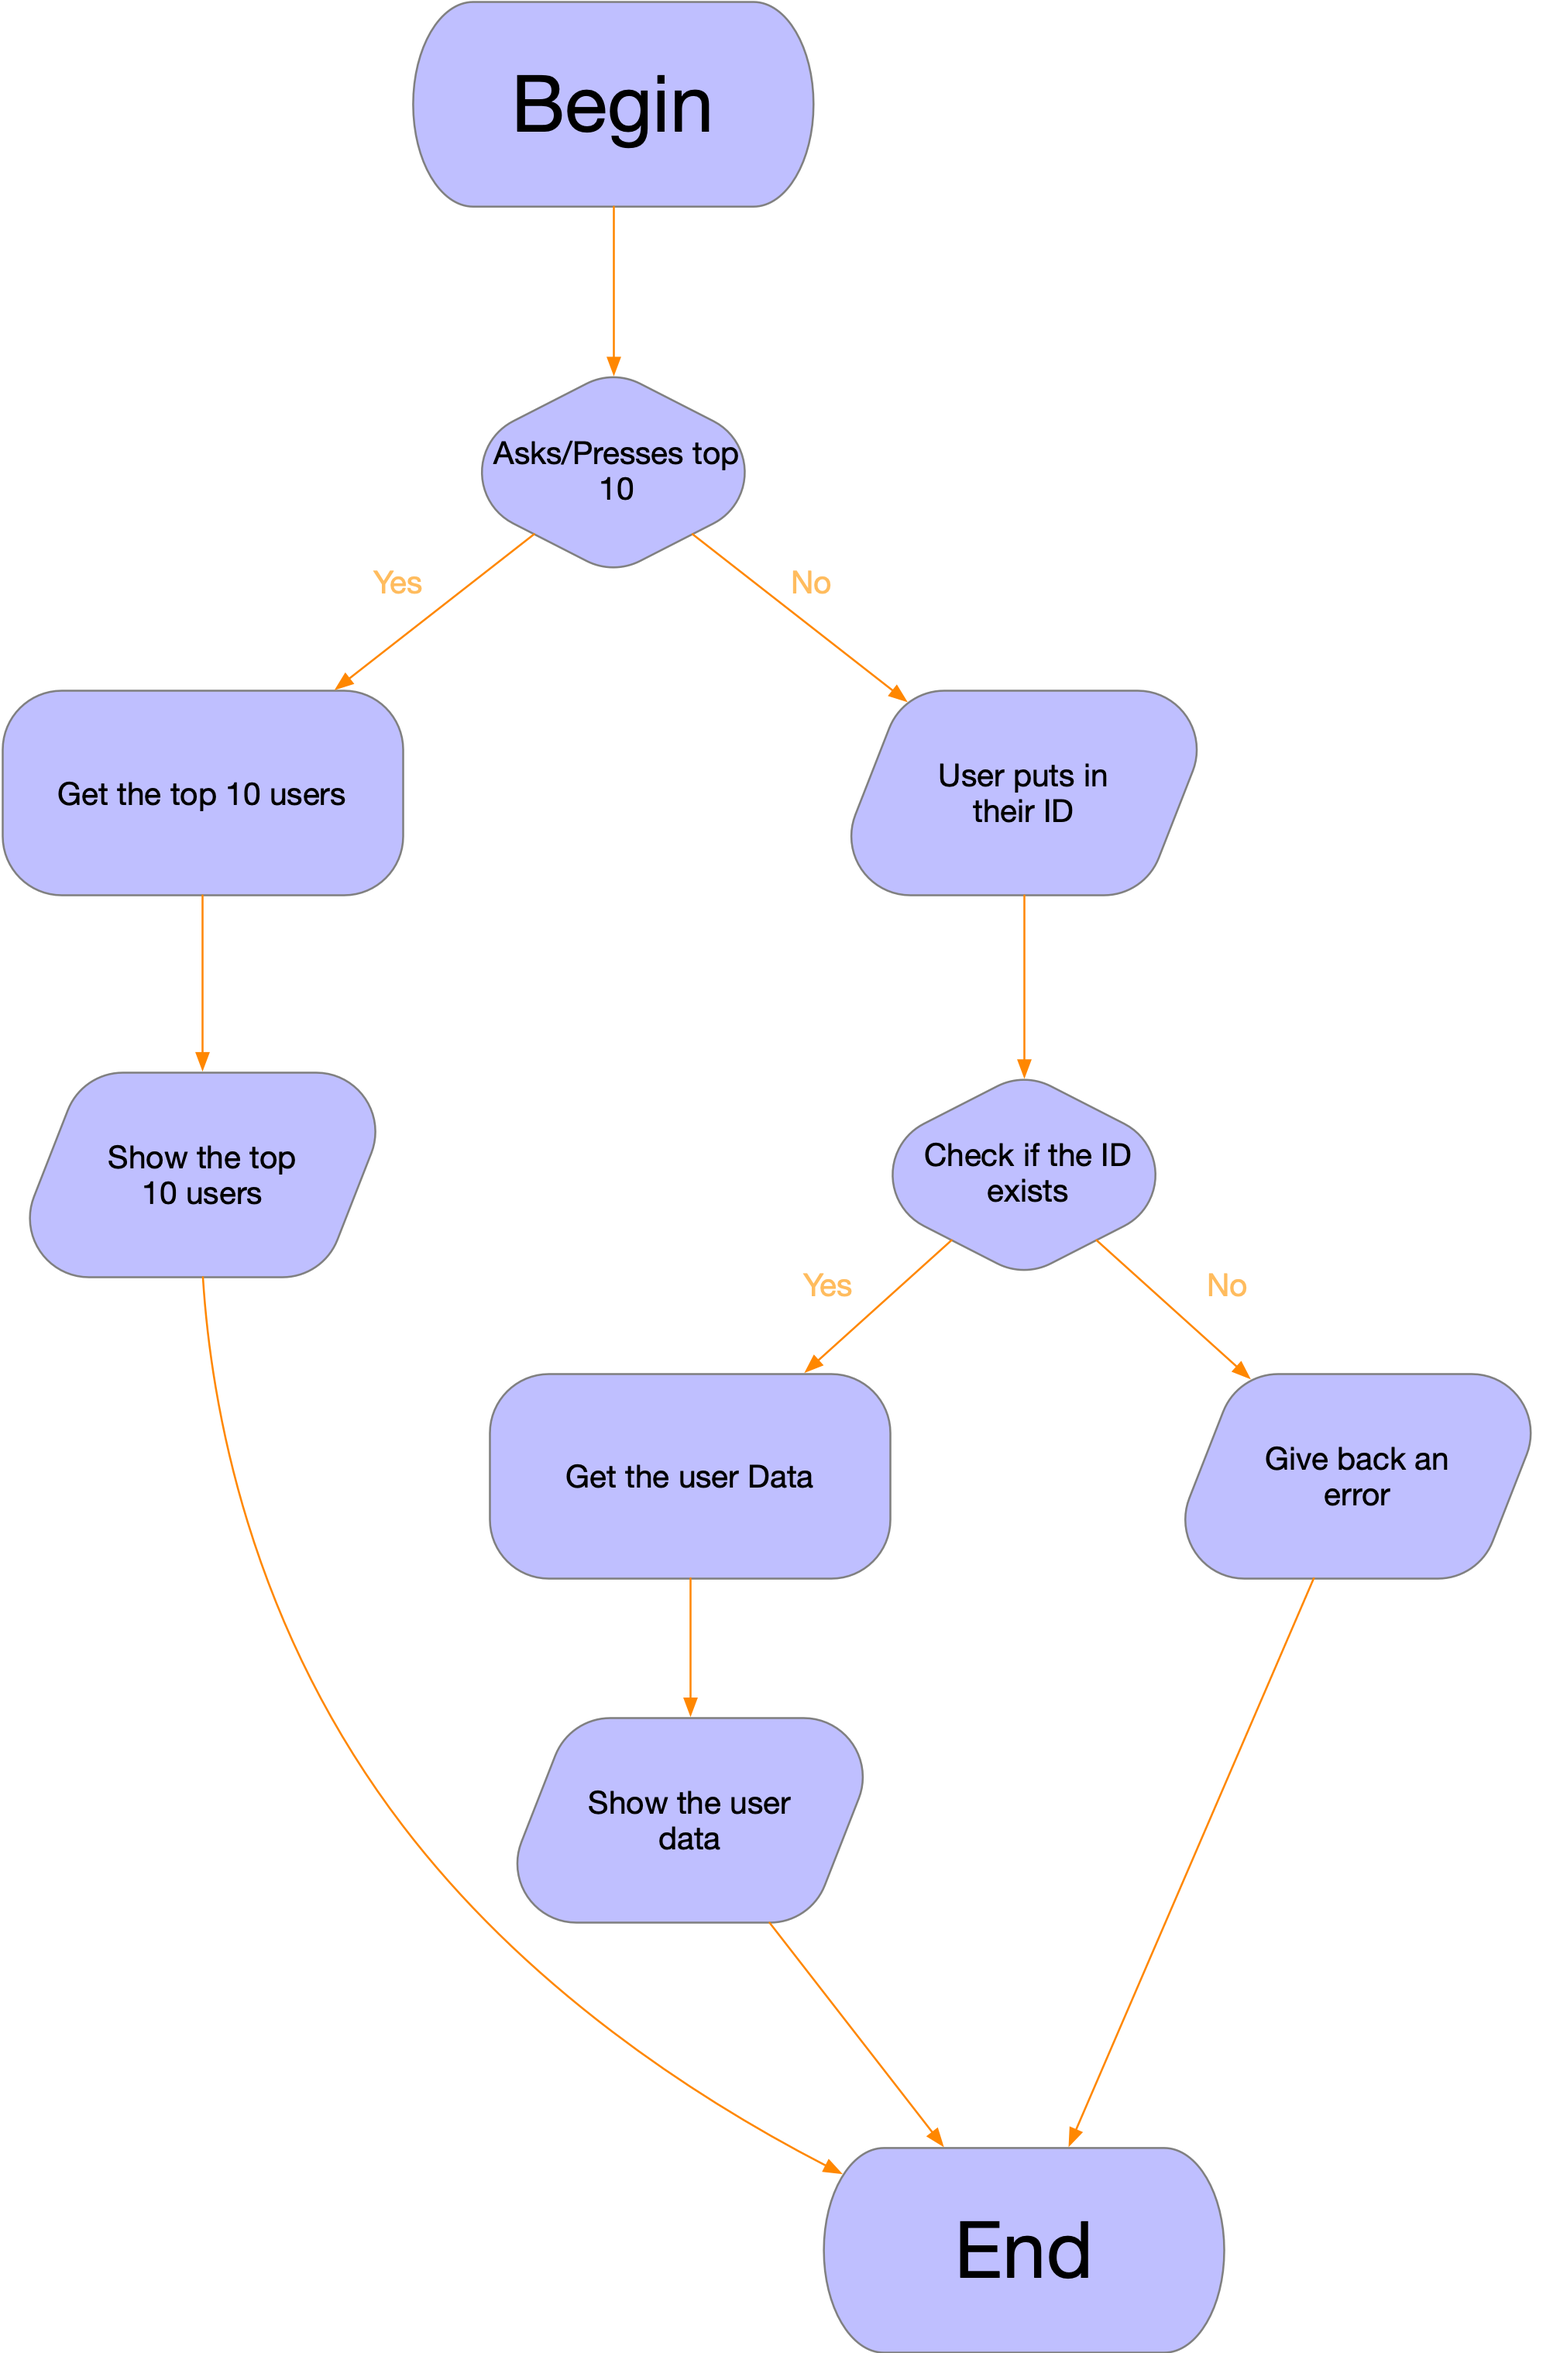
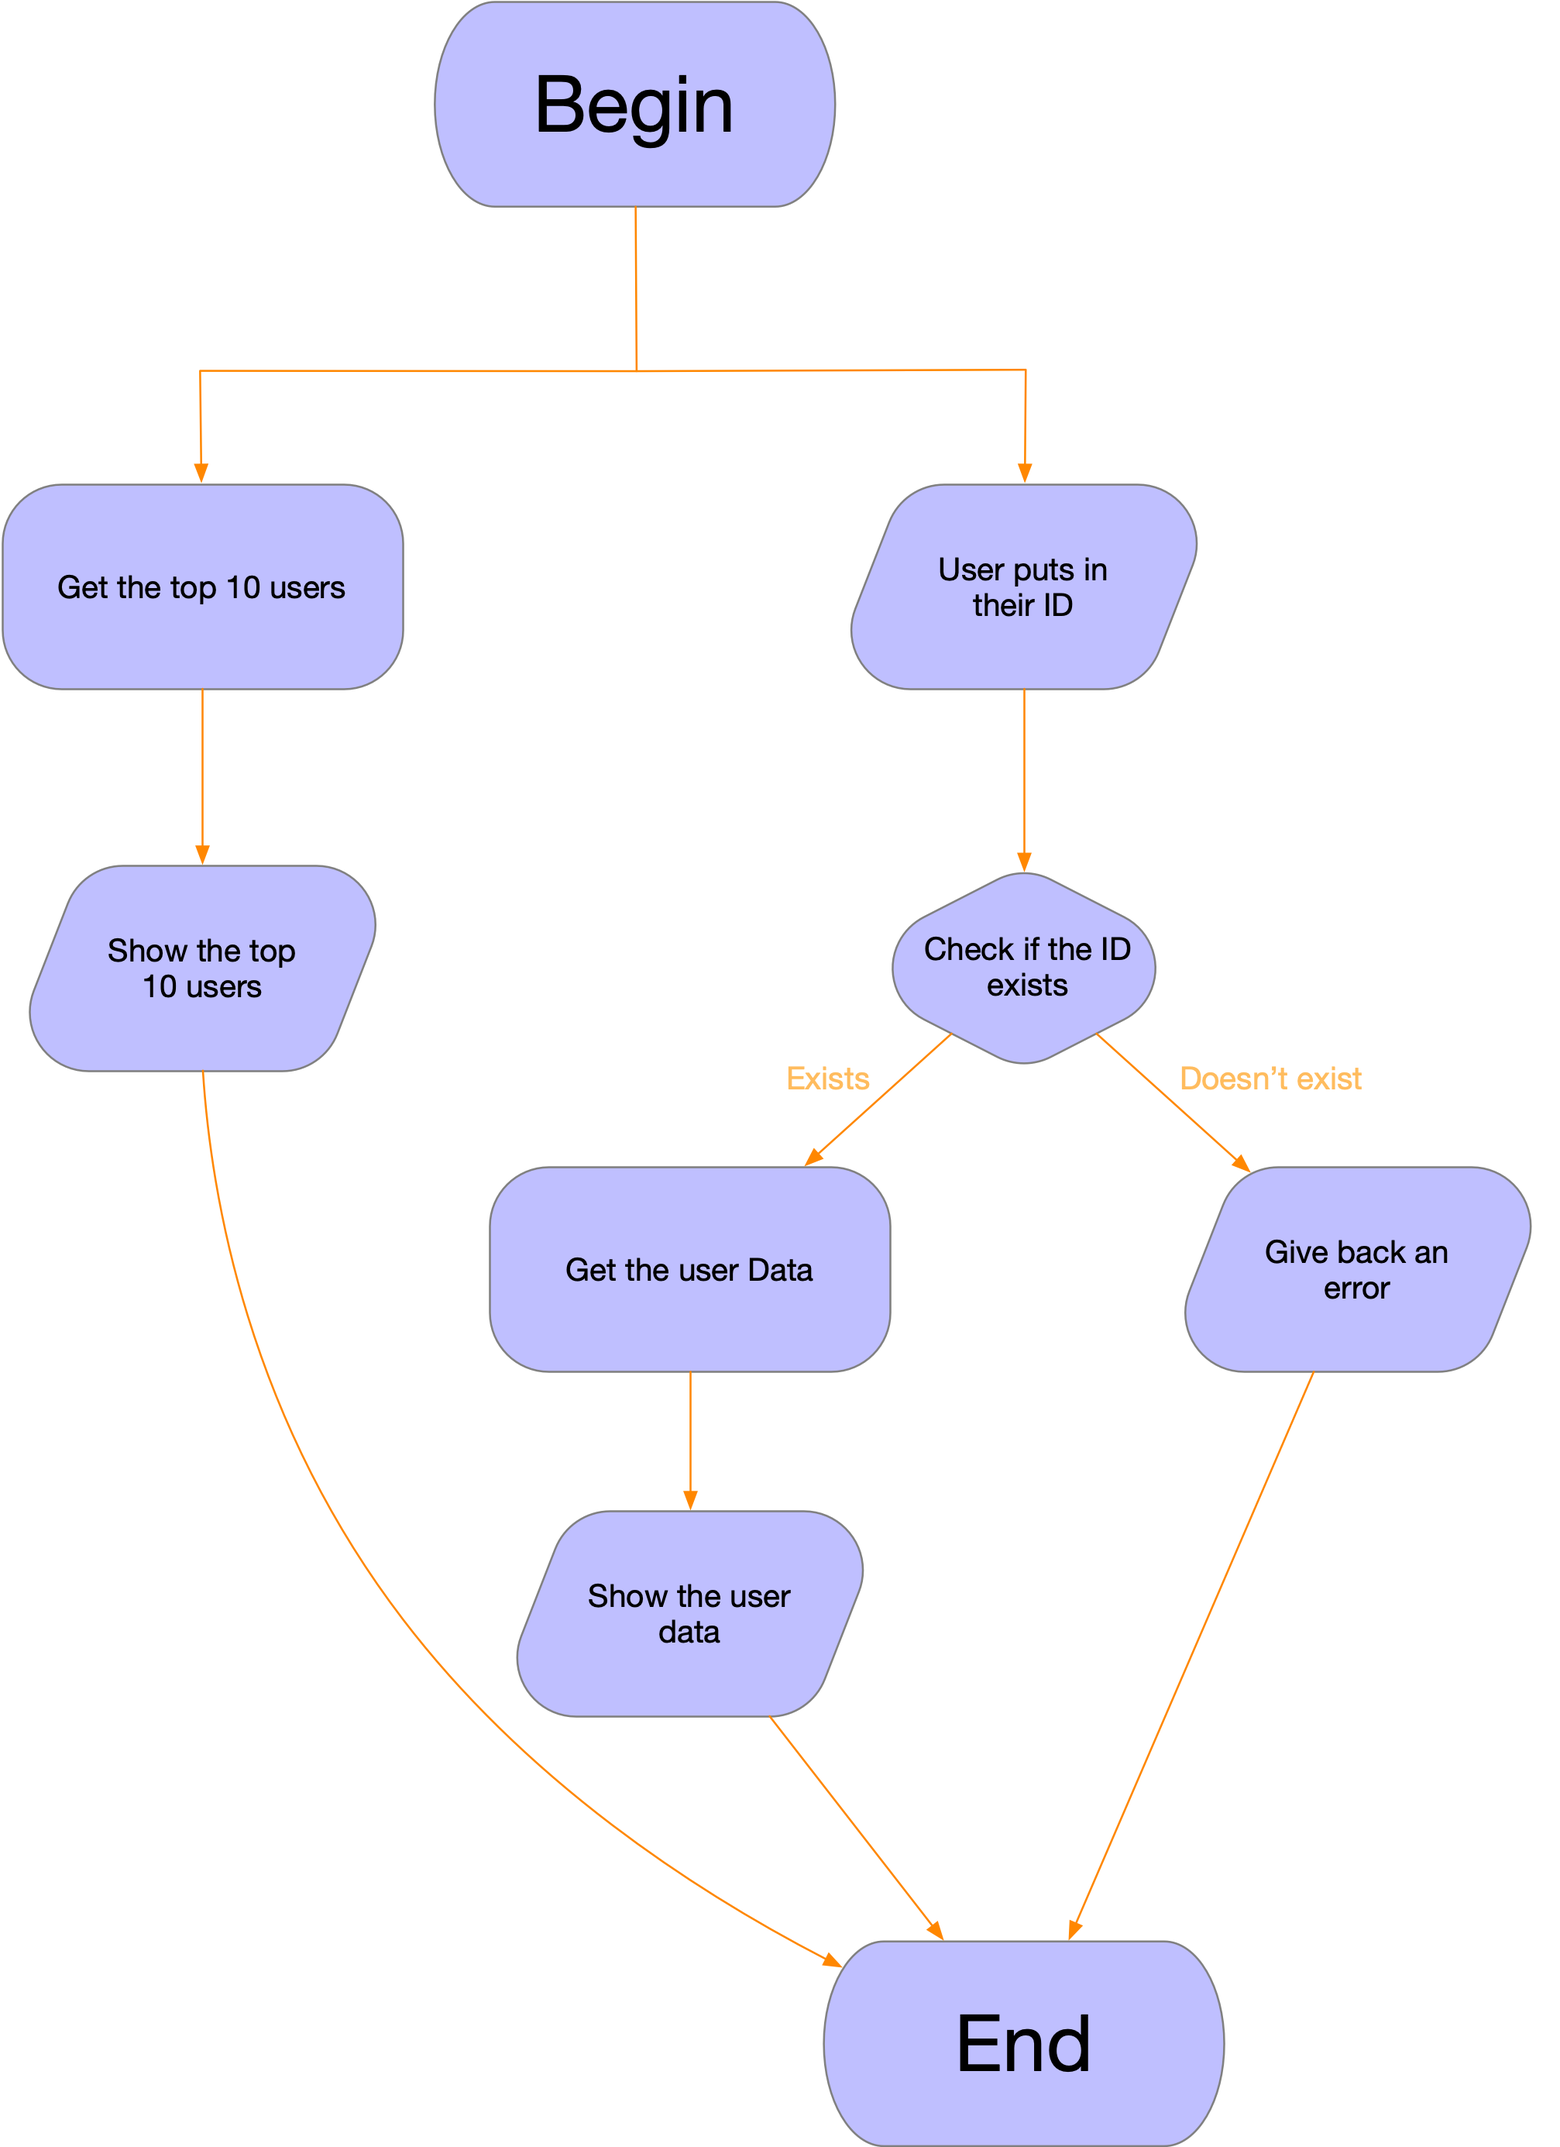
Updated the design document based on feedback
- Changed the wireframes to make more sense
- Gone as much in depth with the Technical design
- Changed the flowchart to make more sense

diff --git a/Docs/Ilybot-API-design-document.md b/Docs/Ilybot-API-design-document.md
@@ -1,4 +1,5 @@
 # Index
+Doesn't fully work in the PDF, as it is made [github](https://github.com/IvoDeK/ilybot-api/blob/main/Docs/Ilybot-API-design-document.md) complient  
 - [Information](#Information)
 	- [General concept](#General-concept)
 - [Functional design](#Functional-design)
@@ -19,7 +20,7 @@
 ## Information
 ### General concept
 
-This project will be an API for my bot that is in progress. This will make it possible to get your general statistics from your user ID which can be the ID that my bot created or the ID that you have on Discord. 
+This project will be an API for my Discord bot that is in progress. The Discord bot creates data from usages with the bot. For example you get experience from chatting in Discord where the bot is in. For each message you get a random amount between 5 and 15. By this you can show someone how active you are on Discord. This will make it possible to get your general statistics from your user ID which can be the ID that my bot created or the ID that you have on Discord. 
 The Idea was to make this project on a website so people can access their public data and that there will be an easy website viewer for the end user that doesn't know how to read such data.
 
 ## Functional design
@@ -68,15 +69,19 @@ The other one will shows the end user their data visually.
 Both are also able to show the top 10 users of all my data. The top 10 is calculated from your experience.
 
 #### Wireframe
-**Legenda**
+**Legend**
+
 | Color | function |
 | :-----: | :-----: |
 | Red | Input field |
 | Blue | Button |
 | White | Text fields |
 
-**Main page/data page**
+**Main page**
 ![WireframeMain](./Assets/wireframeMain.png)
+
+**Data page**
+![WireframeData](./Assets/wireframeData.png)
 
 **Top 10 page**
 ![WireframeTop10](./Assets/wireframeTop10.png)
@@ -103,30 +108,42 @@ All platform should be supported that have an internet connection and an interne
 
 ### Technical information
 #### Code language
-Python ver 3.9  
-mySQL
+Python ver 3.10  
+SQL
 
 #### Frameworks
 Django ver 3.2 LTS
 
+#### Server information
+Testing will be done locally
+The server will have a Apache backend with LAMP
+The database is already hosted elsewhere with PHPMyAdmin
+
 ### Code Info
 
-#### Classes
+#### Views
 
-**MainClass**
-- Will start to host the website
-- Recieve all function from a requester
+**API view**
+- Gets data from the actual database
+	- Setup the Database in config files with a user that only has read permissions.
+	- Test connections
+	- Fetch top 10 with queries 
+	- Fetch user by Discord/bot ID with queries
+	- Packs everything into a json so it can be send to end user
 
-**WebConnector**
-- Will send the data required to fill in recipients page
-- Will send what data has been requested to the DataGrabber class
+**Main view**
+- Gets data from the API view
+	- Asks data from the API
+	- Webfront
+		-  Create the template HTML required for the website
+		-  Functionalities to make the website work with the data
 
-**DataGrabber**
-- Grabs data from the database per user
-- Grabs data from the database to create a top 10 and caches it for 10 mins after
-
-**DataHandler**
-- Format and interpret the data gotten from the DataGrabber class and send it to the WebConnectorClass
+**Top10 view**
+- Gets the top 10 data from API
+	- Asks for date from API
+	- Webfront
+		-  Create the template HTML required for the website
+		-  Functionalities to make the website work with the data
 
 ### Rational datamodel
 ![Rational Datamodel](./Assets/rationalDatamodel.png)
@@ -144,7 +161,7 @@ Django ver 3.2 LTS
 | &nbsp;	|	|
 | **Relations** | **Explenation** | |
 | R1 | Connects the user table with the userStats table |
-&nbsp;
+<br/><br/>
 
 |  | userStats |  |
 | --- | :--- | :---: |
